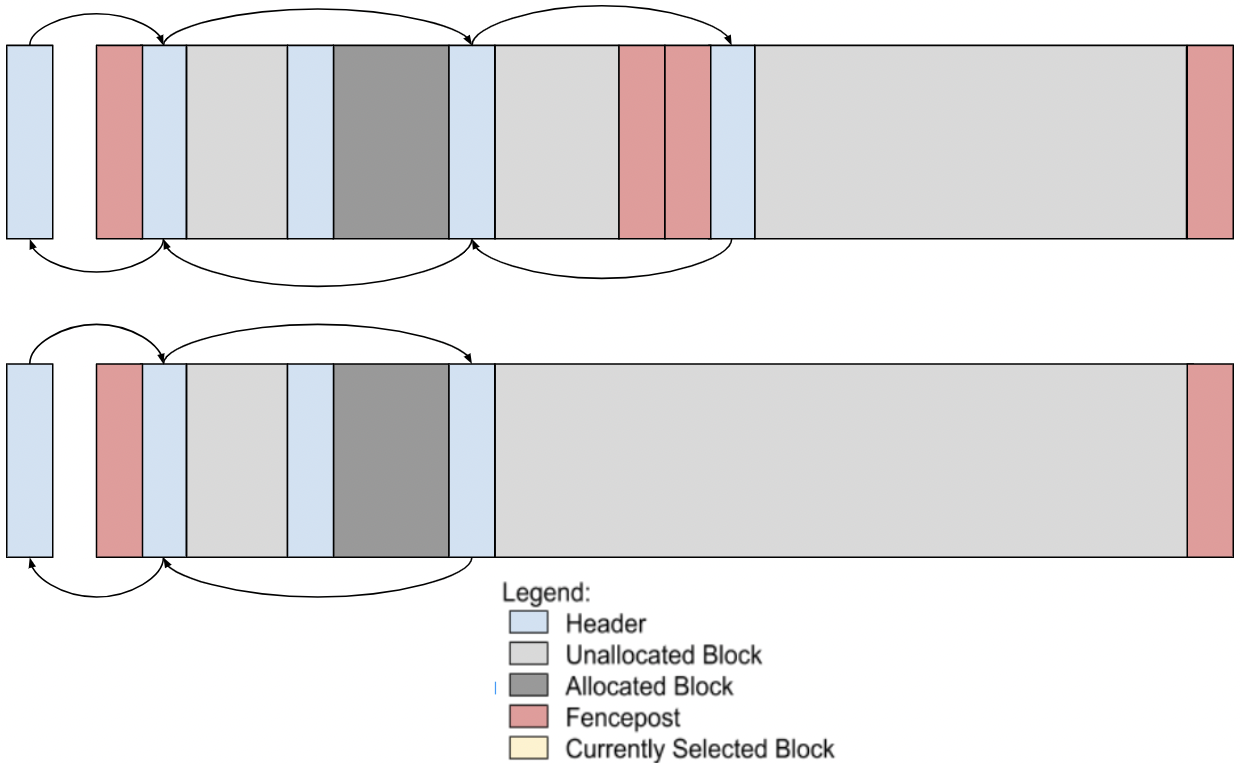
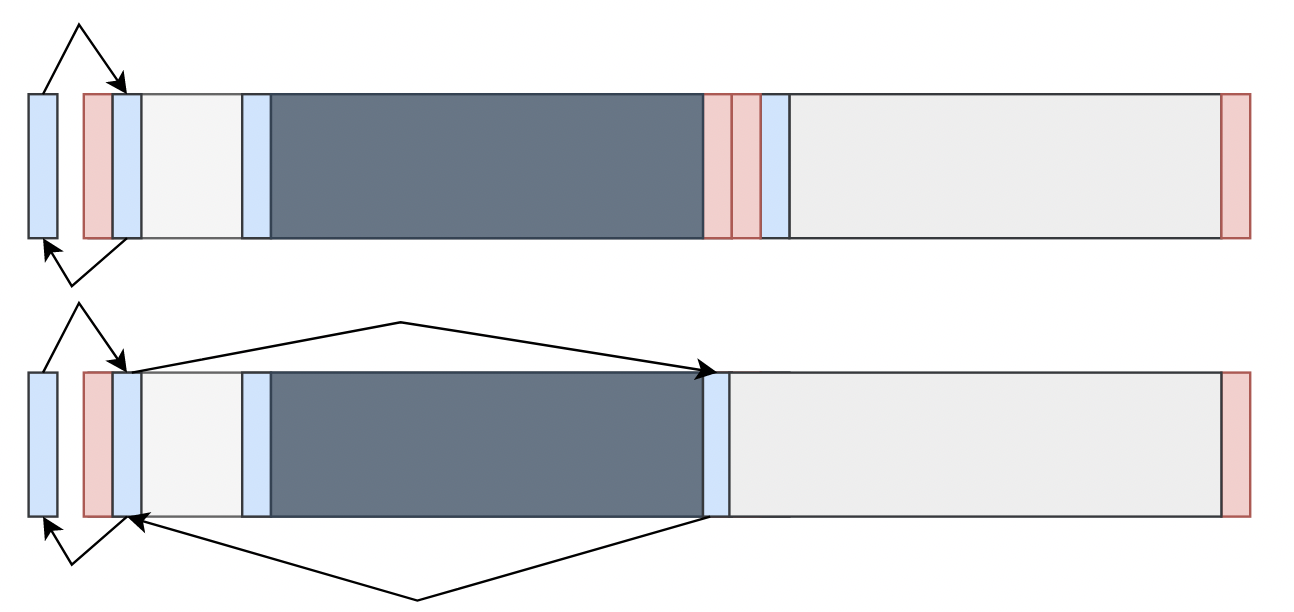
My Malloc Post!

diff --git a/docs/_posts/2023-01-31-mymalloc.md b/docs/_posts/2023-01-31-mymalloc.md
@@ -1,0 +1,109 @@
+---
+layout: post
+title: "myMalloc or: How I Learned To Stop Worrying and Love the SIGSEGV"
+comments: false
+description: "myMalloc or: How I Learned To Stop Worrying and Love the SIGSEGV"
+keywords: ""
+---
+<p align = "center">
+  <img src = "../assets/images/explosion.gif">
+  <br>
+  <em>We'll meet again, don't know where, don't know when...</em>
+</p>
+
+## The Beginning
+
+When all you have is a gun, everything is a foot. No statement has ever been as true when letting an undergrad work with C programming. At Purdue, all computer science undergrads take CS240 - Programming with C. While segfaults, memory leaks, and double frees are common when learning C for the first time, the bite sized homeworks in CS240 allowed for a very soft introduction. Large-scale logic and implementation issues never manifested themselves in our code. There simply was not enough lines to fall into a deep pit of hair pulling. After passing CS240, however, you get a semester to mentally prepare yourself for the goliath...
+
+<h3 align = "center"><em>Systems Programming</em></h3>
+
+At this point, the average CS student had completely forgotten what a pointer was. Learning about data structures and algorithms along with hardware architecture had taken over the space in our brain concerned with memory management. Yet an immediate reallocation is needed in that part of our hippocampus, as the first project is implementing `malloc()` and `free()`.
+
+## Fenceposts and Frustrations
+
+The first step when approaching any systems programming project is crucial. Read. The damn. ***Documentation***. But like every ~~good~~ undergrad, I decided the docs were a waste of bytes and dove straight in. For those who need a refresher on the basic understanding of how dynamic memory works, lets use some diagrams to visualize the problem.
+
+<p align = "center">
+  <img src = "../assets/images/sbrk.png">
+</p>
+
+Dynamic memory (that is, memory allocated at runtime) is stored in a section of computer memory called the heap. When you run out of space, you can use the Unix command `sbrk()` to shrink or extend the heap. However, this implementation results in less than ideal consequences. When you want to deallocate memory, you can only deallocate the block if it falls right at the end of the heap. If the block is somewhere in the middle, you would have to possibly deallocate the right-most blocks first. As a result, we have the `malloc()` and `free()` functions that take care of this process.
+
+<p align = "center">
+  <img src = "../assets/images/blocks.png">
+</p>
+
+Here is a more detailed look at what our heap will look like. Each block of allocatable memory will have a header. This header contains the total size, the size of the left block, and pointers if it is unallocated. These pointers point to the next block of allocatable memory (we call this the free list). The free list is organized by the size of the block, but the exact layout of this list is trivial for this write-up. If we free an allocated block, we must also check if the blocks on our left and right are unallocated. If they are, we can combine them all into one larger block of unallocated memory (this is called coalescing). Along with our allocated and unallocated blocks we have our fenceposts. Fenceposts are headers that have been set to the `FENCEPOST` state using an enum. They allow us to determine where our heap ends so we don't try to process inaccessible memory. The enum layout is:
+```C
+enum my_state {
+  UNALLOCATED = 0,
+  ALLOCATED = 1,
+  FENCEPOST = 2
+};
+```
+You might ask, "where is this information stored?" The enum containing the state of the block was never mentioned as being part of the header, so where is it? Here's the fun part. All  the sizes our blocks of memory will be a multiple of 8 (as is standard), meaning that the binary representation of the size variable stored in the header will always have `000` at the end. We can use these unused bits to store our state:
+
+```C
+head->header_size_state = (head->header_size_state & ~0x3) | state;
+```
+Here we first wipe the existing state with `(head->size_and_state & ~0x3)`. Then we bitwise or it with the given state, thus giving us free room for storage.
+
+
+## Addressing Coalescing
+
+Now that we have a basic understanding of what the heap looks like, what happens when we run out space? Assuming we have no free block large enough to satisfy a request, we must call `sbrk()` to request more heap space from the OS. The exact size we request is a constant called `ARENA_SIZE` which in this instance is 4096 bytes (for more information about what this is and why, check out [page tables](https://en.wikipedia.org/wiki/Page_table)). We have functions that will set up the fenceposts and the unallocated header in this new chunk of memory. If this new chunk is not adjacent to our past chunk in memory, we can simply add the new unallocated block to our free list. However, if they are adjacent, then we must coalesce the two chunks together. This means we must get rid of the fenceposts that are touching each other in the middle of our chunk and make them apart of our unallocated block. If there is a unallocated block at the end of our first chunk that must also be added to our large unallocated block. Such coalescing can be visualized here:
+
+<p align = "center">
+  <img src = "../assets/images/coal.png">
+</p>
+
+## The Customer Is (Not) Always Right
+
+Now that the basic understanding of implementation is established, we now get to start programming! One of the first things that needs to be addressed in `allocate_object()` (our function for allocating memory for the user) is how to handle the user's size request. The size the user enters might have some issues. First, the `size_state` variable in our header struct *includes* the size of the header. Therefore in our request size we must also add on the size of our header. Second, the raw size might not be a multiple 8, meaning we have to round it up for them. Lastly, if the whole size is still less than the size of our header after these adjustments, we should go ahead and request at least this size. First, lets add on our header size:
+
+```C
+size_t whole_size = raw_size + ALLOC_HEADER_SIZE;
+```
+
+You might be curious as to why we use the constant `ALLOC_HEADER_SIZE` and not `sizeof(header)`. This is because an allocated header is smaller than an unallocated header due to the absence of our two free list pointers. Thus our preprocessor line is:
+
+```C
+#define ALLOC_HEADER_SIZE (sizeof(header) - (2 * sizeof(header *)))
+```
+Next, lets round this up to a multiple of 8:
+
+```C
+if (whole_size % 8 != 0) {
+  whole_size += (8-(whole_size % 8));
+}
+```
+Lastly we need to check if our whole size is less than the size of a header.
+
+```C
+if (whole_size < sizeof(header)) {
+  whole_size = sizeof(header);
+}
+```
+
+Putting this all together we get:
+
+```C
+header * allocate_object(size_t raw_size) {
+  if (raw_size <= 0) { // If our user is an idiot...
+    return NULL;
+  }
+  size_t whole_size = raw_size + ALLOC_HEADER_SIZE;
+  if (whole_size % 8 != 0) {
+    whole_size += (8-(whole_size % 8));
+  }
+  if (whole_size < sizeof(header)) {
+    whole_size = sizeof(header);
+  }
+  
+  ...
+}
+```
+
+## The Oak and the Fern - Lessons Learned
+
+My experience working on this project was - and i mean this earnestly - crucial in forming my opinions on C. While I definitely enjoyed my time in CS240, I think working on a large scale and difficult project made me appreciate C a lot more. In the past, I have resisted using C and going deeper under the hood of computers. Remember, I am a math major after all, and the computational aspects of computer science are my niche. However, much like the fern in Aesop's famous tale, I found that allowing myself to embrace C and systems programming made me appreciate this lower-level programming a lot more. For all the SEGFAULTS, double frees, and undefined behaviors I programmed, it got me one step closer to loving working with low-level systems. C is a dangerous language, but once you shake off your initial fears (and buy the famous K&R book), you too can learn to stop worrying and love the SIGSEGV.
